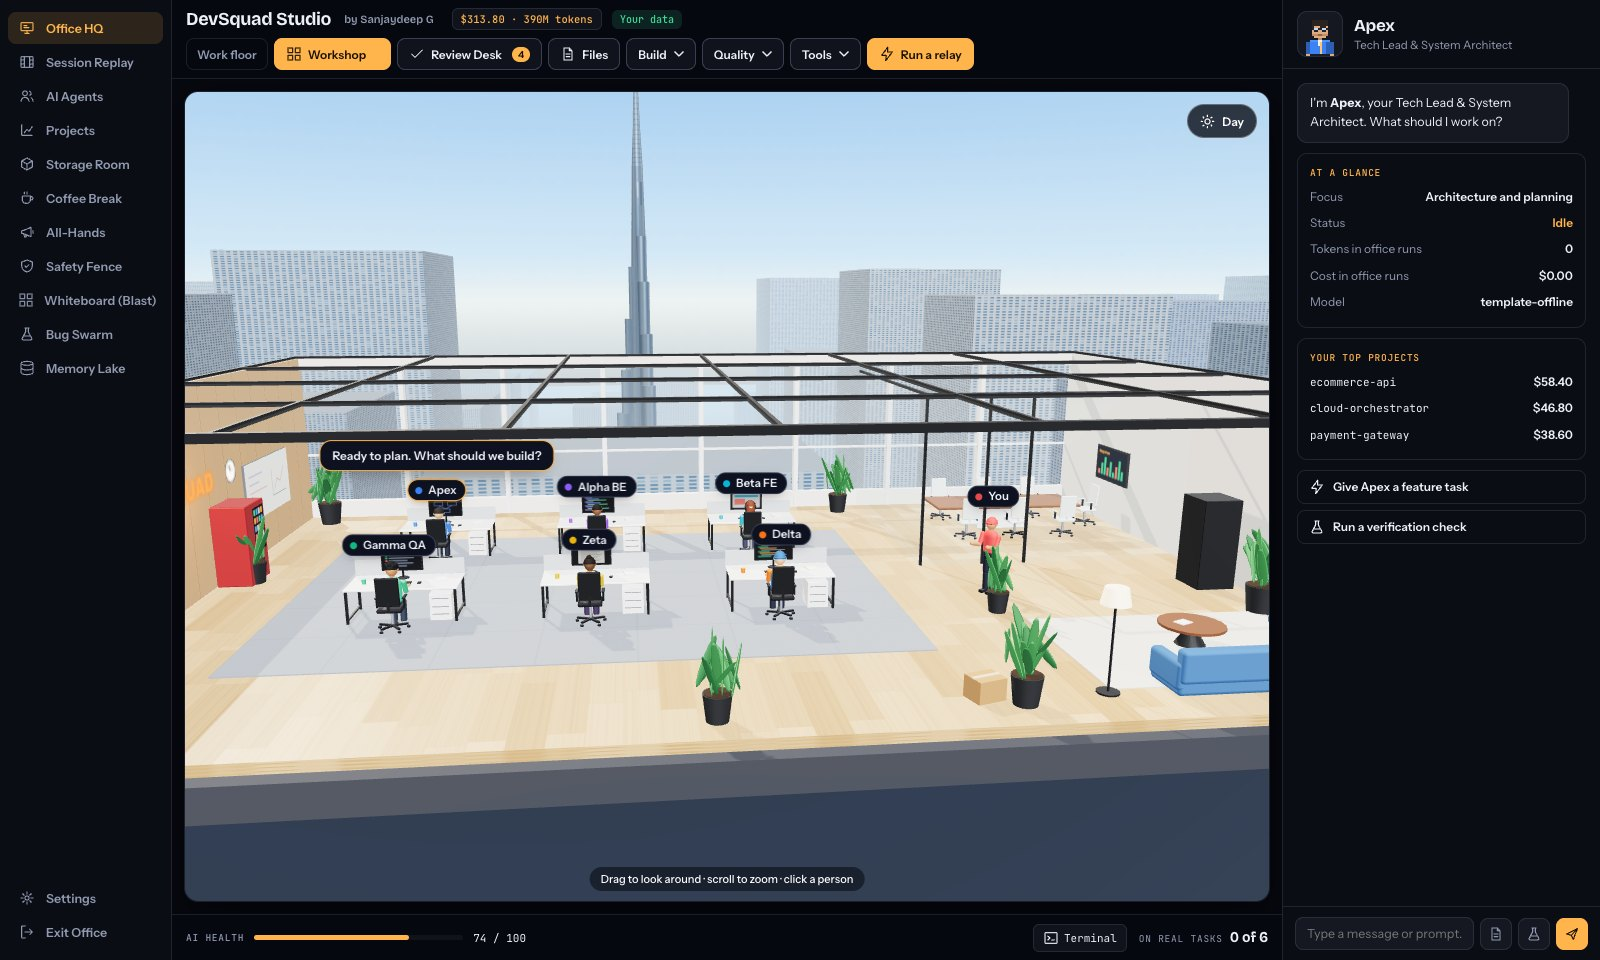
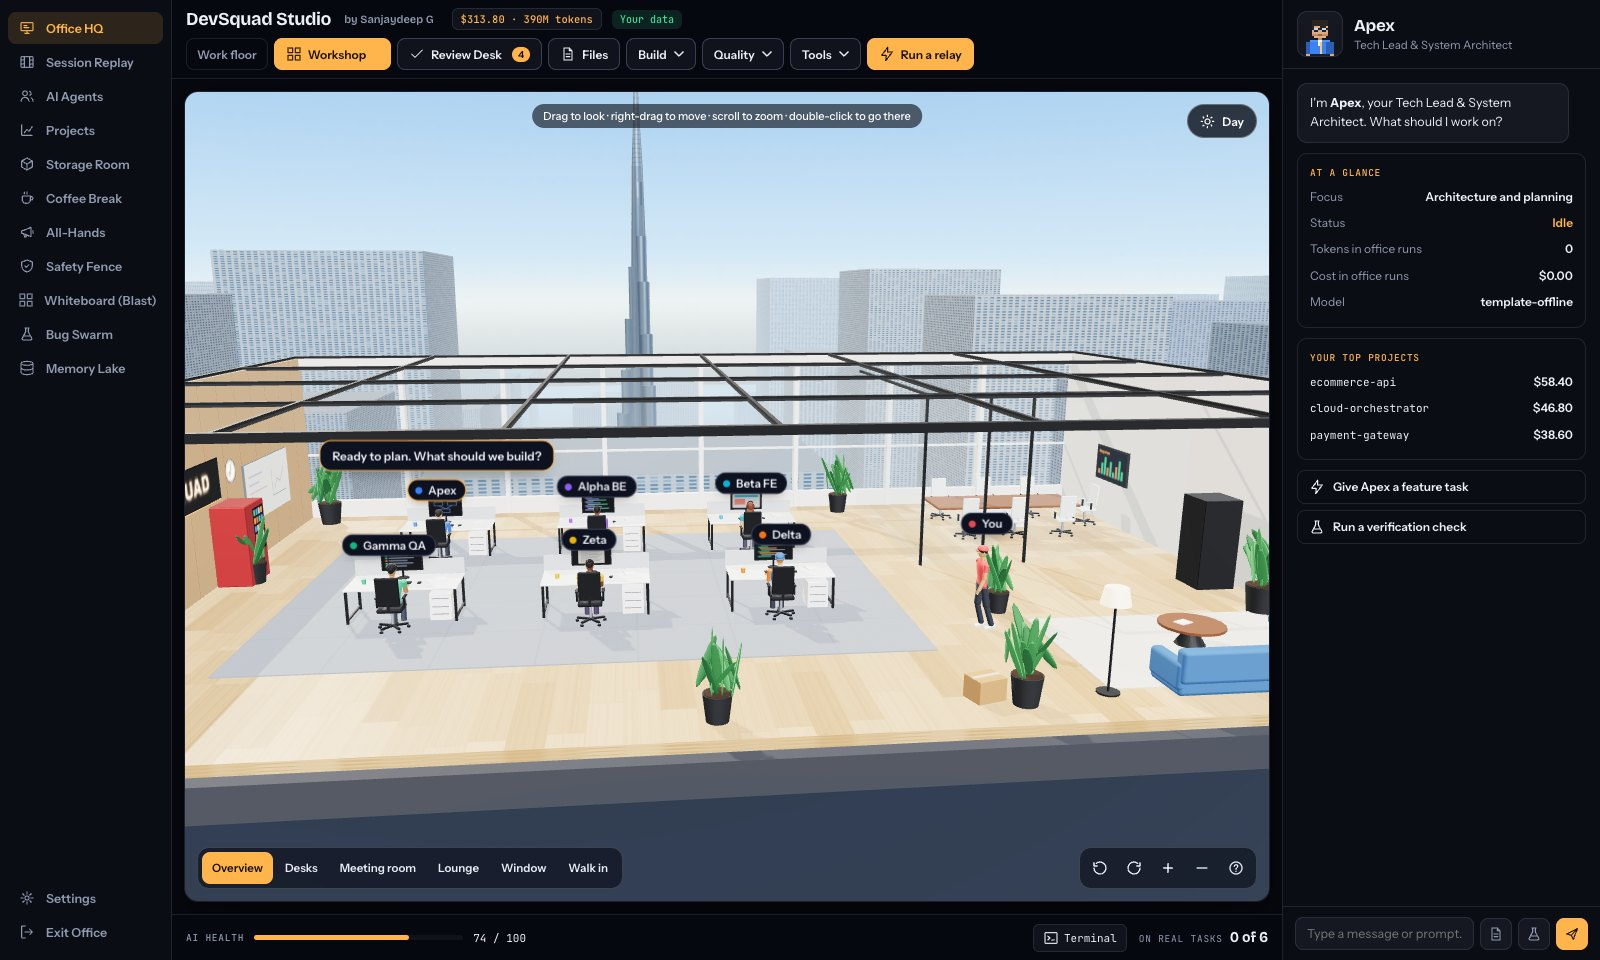
docs: screenshots and notes for the walkable 3D office

diff --git a/CHANGELOG.md b/CHANGELOG.md
@@ -15,7 +15,15 @@ This project adheres to [Semantic Versioning](https://semver.org/spec/v2.0.0.htm
 - **PDF and image reading** (`devsquad/core/doc_reader.py`): PDF text extraction with the standard library; image descriptions from a local vision model.
 - `/api/v5/` routes shared by the standard and FastAPI servers (`devsquad/server/v5_api.py`), behind the same local-only guard.
 
+- **Walk into the 3D office**: view presets (Overview, Desks, Meeting room, Lounge, Window, Walk in), turn and zoom buttons, zoom toward the pointer, right-drag to move, double-click to go to a spot or see a person's face, and keyboard controls (W A S D, Q E, + -, 1-6, R), with a help card.
+- **Session Replay of relay runs**: `/api/replay` replays a run step by step from the flight recorder, or from its log for older runs. Replay returned 404 before.
+
 ### Changed
+- **More realistic people**: one smooth head shape with eyes that blink, eyelids, brows, nose, ears and mouth; hair that follows a real hairline; shaped torso, hands and shoes; fabric and skin materials; weight shifts and a hip sway when walking.
+- **People don't walk through or circle each other**: walkers keep to their right and slow down behind someone going the same way. Name tags no longer pile up.
+- **You walk the floor**: checking in at desks, watching whoever is on a real task, coffee, whiteboard, window and sofa, and leading meetings from the head of the table.
+- **DEVSQUAD sign** is now light letters on a dark panel, readable by day and by night.
+- **Panels**: content is never squashed (the Roadmap's Mermaid graph was cut to one line); Review Desk, Settings and Visual QA fit on phones; Escape closes every panel.
 - **Tidier topbar**: the everyday actions stay in view and 16 other tools are grouped under Build, Quality and Tools menus (keyboard friendly). At 1280 to 1440 px the topbar is two rows instead of four or five, and on phones it is one row that scrolls sideways, so the office gets the space.
 - **README screenshots** now show the current 3D office (night and day) and the Workshop board.
 - **Flaky tests are real**: the runner now runs your test command repeatedly with a different hash seed per run and reports actual results. The old simulation is kept only as a deprecated function that says it ran nothing.

diff --git a/README.md b/README.md
@@ -39,7 +39,7 @@ Current AI coding tools fall into two frustrating extremes:
   <img src="docs/screenshot-office-day.jpg" alt="The same office in day mode, with Apex's status on the right and the Build, Quality and Tools menus in the topbar" width="100%" />
 </p>
 
-DevSquad combines real terminal execution with a **3D office** you can orbit and zoom, switch between day and night, and click into (the **2D Pixel Office** is the fallback where WebGL isn't available). The topbar keeps the everyday actions in view (**Workshop**, **Review Desk**, **Files**, **Run a relay**) and groups the other tools under **Build**, **Quality** and **Tools**:
+DevSquad combines real terminal execution with a **3D office** you can walk into (the **2D Pixel Office** is the fallback where WebGL isn't available). Jump to **Overview**, **Desks**, **Meeting room**, **Lounge**, **Window** or **Walk in** at eye level; drag to look, right-drag to move, scroll to zoom toward the pointer, and double-click a spot to go there or a person to see their face. With the office focused, **W A S D** or the arrow keys walk, **Q E** turn, **+ -** zoom and **1-6** pick a view. The team moves like people do: they keep right in the aisles, take coffee and whiteboard breaks, and **You** walk the floor checking in on whoever is working. The topbar keeps the everyday actions in view (**Workshop**, **Review Desk**, **Files**, **Run a relay**) and groups the other tools under **Build**, **Quality** and **Tools**:
 
 ### 1. 🔍 Interactive Blast-Radius Visualizer (On the Office Whiteboard)
 Click directly on the **Whiteboard** on the office back wall or click **Build → Blast Radius** in the topbar to inspect AST dependencies:
